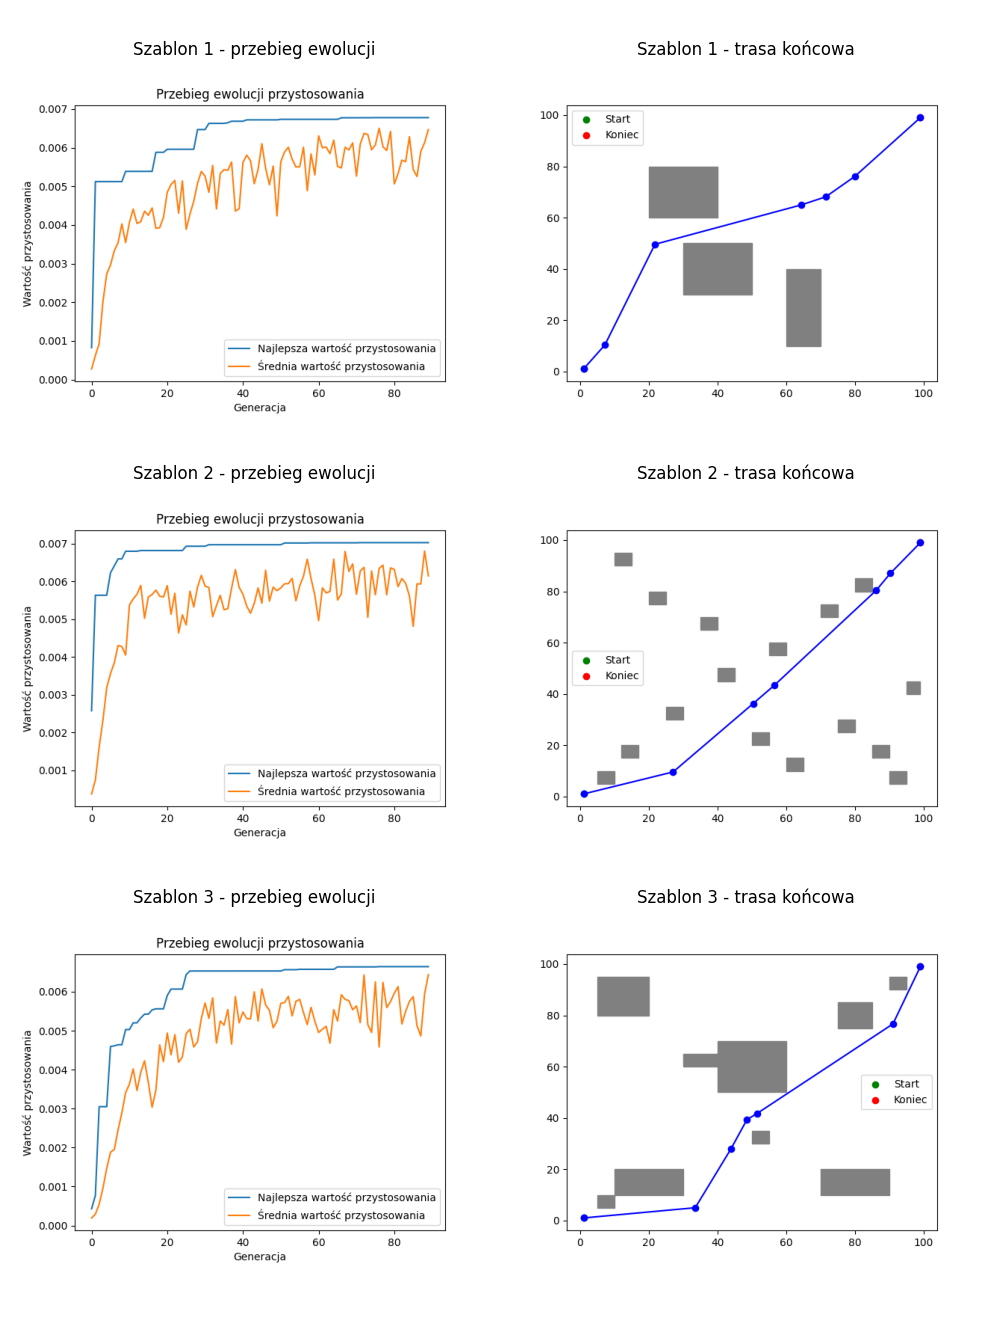
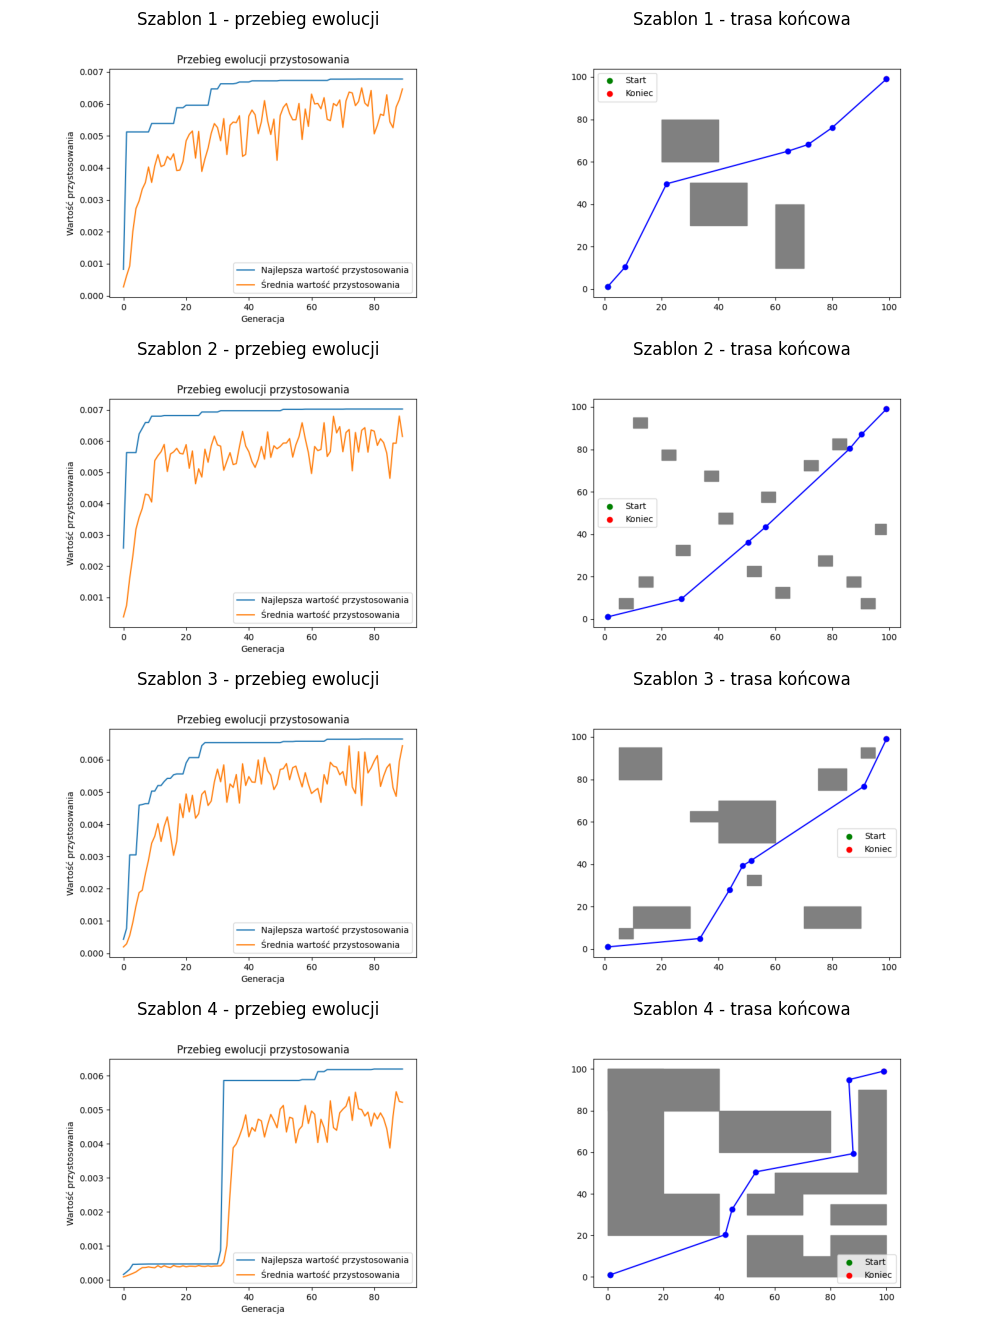
zasoby do sprawozdania

diff --git a/Przykładowe przebiegi/New_text_file.py b/Przykładowe przebiegi/New_text_file.py
@@ -16,10 +16,14 @@ img5 = cv2.imread('Szablon 3_1.png')
 img5 = cv2.cvtColor(img5, cv2.COLOR_BGR2RGB)
 img6 = cv2.imread('Szablon 3_2.png')
 img6 = cv2.cvtColor(img6, cv2.COLOR_BGR2RGB)
+img7 = cv2.imread('Szablon 4_1.png')
+img7 = cv2.cvtColor(img7, cv2.COLOR_BGR2RGB)
+img8 = cv2.imread('Szablon 4_2.png')
+img8 = cv2.cvtColor(img8, cv2.COLOR_BGR2RGB)
 
-#wyświetl je w siatce 2x3
+#wyświetl je w siatce 2x4
 
-fig, axs = plt.subplots(3, 2, figsize=(10, 15))
+fig, axs = plt.subplots(4, 2, figsize=(10, 15))
 
 axs[0, 0].imshow(img1)
 axs[0, 0].axis('off')
@@ -44,6 +48,15 @@ axs[2, 0].set_title('Szablon 3 - przebieg ewolucji')
 axs[2, 1].imshow(img6)
 axs[2, 1].axis('off')
 axs[2, 1].set_title('Szablon 3 - trasa końcowa')
+
+axs[3, 0].imshow(img7)
+axs[3, 0].axis('off')
+axs[3, 0].set_title('Szablon 4 - przebieg ewolucji')
+
+axs[3, 1].imshow(img8)
+axs[3, 1].set_title('Szablon 4 - trasa końcowa')
+axs[3, 1].axis('off')
+
 
 plt.tight_layout()
 plt.show()
